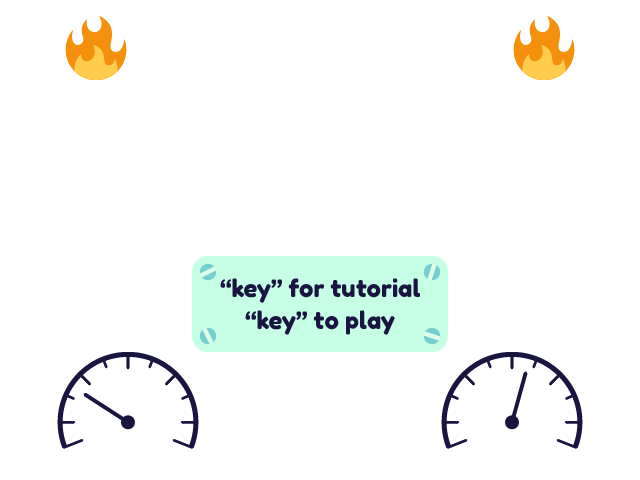
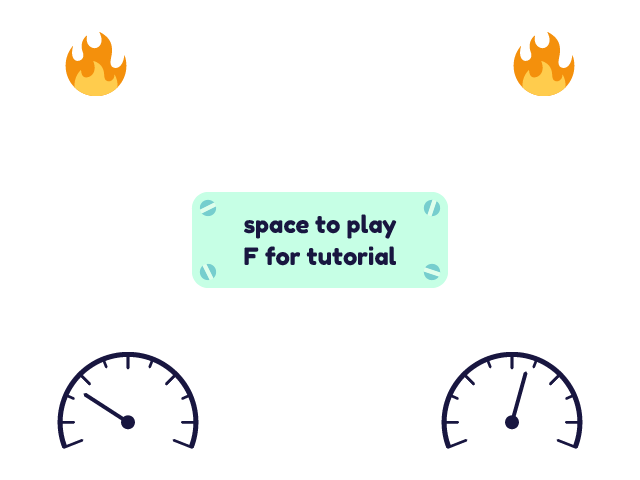
added tutorial, added global tileX variables

Changed region(s): [[0.2812, 0.375, 0.7188, 0.75], [0.7812, 0.0312, 0.9062, 0.2188], [0.0938, 0.0312, 0.2188, 0.2188]]

diff --git a/src/scenes/Menu.js b/src/scenes/Menu.js
@@ -5,12 +5,12 @@ class Menu extends Phaser.Scene {
 
     init() {
         this.bgOffset = 50;         // this makes the bg elements lower on the title screen than on the play screen
-        this.tweenLength = 4000;    // so all the tweens later on are the same length
-        this.parallaxMovement = 2;  // used for parallax on the title screen only
+        this.parallaxMovement = 2;  // used for parallax on the title and tutorial scenes
     }
 
     preload() {
         this.load.image("menu ui", "./assets/menu_ui_image.png");
+        this.load.image("tutorial ui", "./assets/tutorial_ui_image.png");
         this.load.image("sun", "./assets/sun_background.png");
         this.load.image("buildings", "./assets/buildings_background.png");
         this.load.image("mushrooms", "./assets/mushrooms_background.png");
@@ -55,6 +55,9 @@ class Menu extends Phaser.Scene {
             480,
             "buildings"
             ).setOrigin(0, 0);
+
+        this.buildings.tilePositionX = buildingsX + this.parallaxMovement;
+
         this.mushrooms = this.add.tileSprite(
             0, 
             this.bgOffset*5, 
@@ -83,70 +86,79 @@ class Menu extends Phaser.Scene {
             "menu ui"
             ).setOrigin(0, 0);
         
+        this.tweens.add({
+            targets: [this.menuSprite],
+            alpha: {from: 0, to: 1},
+            duration: 500,
+        });
+        
         // our baby!
         this.engine = this.add.sprite(
-            borderUISize,
+            borderUISize + 8,
             game.config.height - 2 * borderUISize,
             "fireguy",
             0);
 
-        // okay here are all the tweens. they are essentially identical, but for each of the different
-        // layers of the background.
+        // okay here are all the tweens. 
+        this.tweenLength = 4000;
+        this.tweenEase = "Back.In";
+        this.isTweening = false;
         // in the future, i will change this so that the different keys go to different screens/tweens
         // i am using Quart.easeOut but maybe i will change that to
-        this.input.keyboard.on("keydown", () => {
-            this.tweens.add({
-                targets: [this.sun],
-                y: {from: this.sun.y, to: 0},
-                duration: this.tweenLength,
-                ease: "Quart.easeOut"
-            }).on("complete", () =>
-                this.scene.start("playScene"), this);
-            this.tweens.add({
-                targets: [this.buildings],
-                y: {from: this.buildings.y, to: 0},
-                duration: this.tweenLength,
-                ease: "Quart.easeOut"
-            });
-            this.tweens.add({
-                targets: [this.mushrooms],
-                y: {from: this.mushrooms.y, to: 0},
-                duration: this.tweenLength,
-                ease: "Quart.easeOut"
-            });
-            this.tweens.add({
-                targets: [this.ground],
-                y: {from: this.ground.y, to: 0},
-                duration: this.tweenLength,
-                ease: "Quart.easeOut"
-            });
-            this.tweens.add({
-                targets: [this.groundbacking],
-                y: {from: this.groundbacking.y, to: 0},
-                duration: this.tweenLength,
-                ease: "Quart.easeOut"
-            });
+        this.input.keyboard.on("keydown-SPACE", () => {
+            if (this.isTweening == false) {
+                this.isTweening = true;
+                this.tweens.add({
+                    targets: [this.sun, this.buildings, this.mushrooms, this.groundbacking, this.ground],
+                    y: 0,
+                    duration: this.tweenLength,
+                    ease: this.tweenEase
+                }).on("complete", () => {
+                    buildingsX = this.buildings.tilePositionX + this.parallaxMovement;
+                    mushroomsX = this.buildings.tilePositionX;
+                    groundbackingX =this.buildings.tilePositionX;
+                    groundX = this.buildings.tilePositionX;
+                    this.scene.start("playScene"), this
+                });
+                
+                // this one tweens the parallax movement to zero so that the play screen starts stationary
+                this.tweens.add({
+                    targets: this,
+                    parallaxMovement: {from: this.parallaxMovement, to: 0},
+                    duration: this.tweenLength,
+                    ease: this.tweenEase
+                });
 
-            // this one tweens the parallax movement to zero so that the play screen starts stationary
-            this.tweens.add({
-                targets: this,
-                parallaxMovement: {from: this.parallaxMovement, to: 0},
-                duration: this.tweenLength,
-                ease: "Quart.easeOut"
-            });
+                // this tweens the ui sprite to alpha = 0 so that it is gone by the time the play scene starts
+                this.tweens.add({
+                    targets: [this.menuSprite],
+                    alpha: {from: 1, to: 0},
+                    duration: this.tweenLength/2,
+                });
+            }
+        });
 
-            // this tweens the ui sprite to alpha = 0 so that it is gone by the time the play scene starts
-            this.tweens.add({
-                targets: [this.menuSprite],
-                alpha: {from: 1, to: 0},
-                duration: this.tweenLength/2,
-                ease: "Quart.easeOut"
-            });
-            //this.scene.start("playScene");
+        this.input.keyboard.on("keydown-F", () => {
+            if (this.isTweening == false) {
+                this.isTweening = true;
+                this.tweens.add({
+                    targets: [this.menuSprite],
+                    alpha: {from: 1, to: 0},
+                    duration: 500,
+                }).on("complete", () => {
+                    buildingsX = this.buildings.tilePositionX + this.parallaxMovement;
+                    this.scene.start("tutorialScene"), this
+                });
+            }
         });
     }
 
     update() {
+        this.sun.y = Math.round(this.sun.y);
+        this.buildings.y = Math.round(this.buildings.y);
+        this.mushrooms.y = Math.round(this.mushrooms.y);
+        this.groundbacking.y = Math.round(this.groundbacking.y);
+        this.ground.y = Math.round(this.ground.y);
         this.buildings.tilePositionX += this.parallaxMovement;
         this.mushrooms.tilePositionX += this.parallaxMovement*1.5;
         this.groundbacking.tilePositionX += this.parallaxMovement*2;

diff --git a/src/scenes/Tutorial.js b/src/scenes/Tutorial.js
@@ -1,0 +1,74 @@
+class Tutorial extends Phaser.Scene {
+    constructor() {
+        super("tutorialScene");
+    }
+
+    init() {
+        this.bgOffset = 50;         // this makes the bg elements lower on the title screen than on the play screen
+        this.parallaxMovement = 2;  // used for parallax on the title and tutorial scenes
+    }
+
+    preload() {
+        
+    }
+
+    create() {
+        this.add.rectangle(
+            0,
+            0,
+            640,
+            480,
+            0x181640
+            ).setOrigin(0, 0);
+        
+        // the next five tile sprites are what make up the background of the game 
+        this.sun = this.add.tileSprite(
+            0, 
+            this.bgOffset, 
+            640, 
+            480,
+            "sun"
+            ).setOrigin(0, 0);
+        this.buildings = this.add.tileSprite(
+            0, 
+            this.bgOffset*2, 
+            640,
+            480,
+            "buildings"
+            ).setOrigin(0, 0);
+        this.buildings.tilePositionX = buildingsX + this.parallaxMovement;
+        
+        this.tutorialSprite = this.add.sprite(
+            0,
+            0,
+            "tutorial ui"
+            ).setOrigin(0, 0);
+        
+        
+        this.tweens.add({
+            targets: [this.tutorialSprite],
+            alpha: {from: 0, to: 1},
+            duration: 1000,
+        });
+        this.isTweening = false;
+        this.input.keyboard.on("keydown-F", () => {
+            if (this.isTweening == false) {
+                this.isTweening = true;
+                this.tweens.add({
+                    targets: [this.tutorialSprite],
+                    alpha: {from: 1, to: 0},
+                    duration: 500,
+                }).on("complete", () => {
+                    buildingsX = this.buildings.tilePositionX + this.parallaxMovement;
+                    this.scene.start("menuScene"), this
+                });
+            }
+        });
+    }
+
+    update() {
+        //this.sun.y = Math.round(this.sun.y);
+        this.buildings.y = Math.round(this.buildings.y);
+        this.buildings.tilePositionX += this.parallaxMovement;
+    }
+}

diff --git a/src/main.js b/src/main.js
@@ -8,7 +8,7 @@ let config = {
             debug: true
         }
     },
-    scene: [Menu, Play],
+    scene: [Menu, Play, Tutorial],
 };
 
 let game = new Phaser.Game(config);
@@ -17,3 +17,8 @@ let borderUISize = game.config.height / 15;
 let borderPadding = borderUISize / 3;
 
 let keySPACE, keyF;
+
+let buildingsX = 0;
+let mushroomsX = 0;
+let groundbackingX = 0;
+let groundX = 0;

diff --git a/index.html b/index.html
@@ -10,6 +10,7 @@
     <script src="./src/prefabs/Enemy1.js"></script>
     <script src="./src/scenes/Menu.js"></script>
     <script src="./src/scenes/Play.js"></script>
+    <script src="./src/scenes/Tutorial.js"></script>
     <script src="./src/main.js"></script>
 </head>
 <body>
